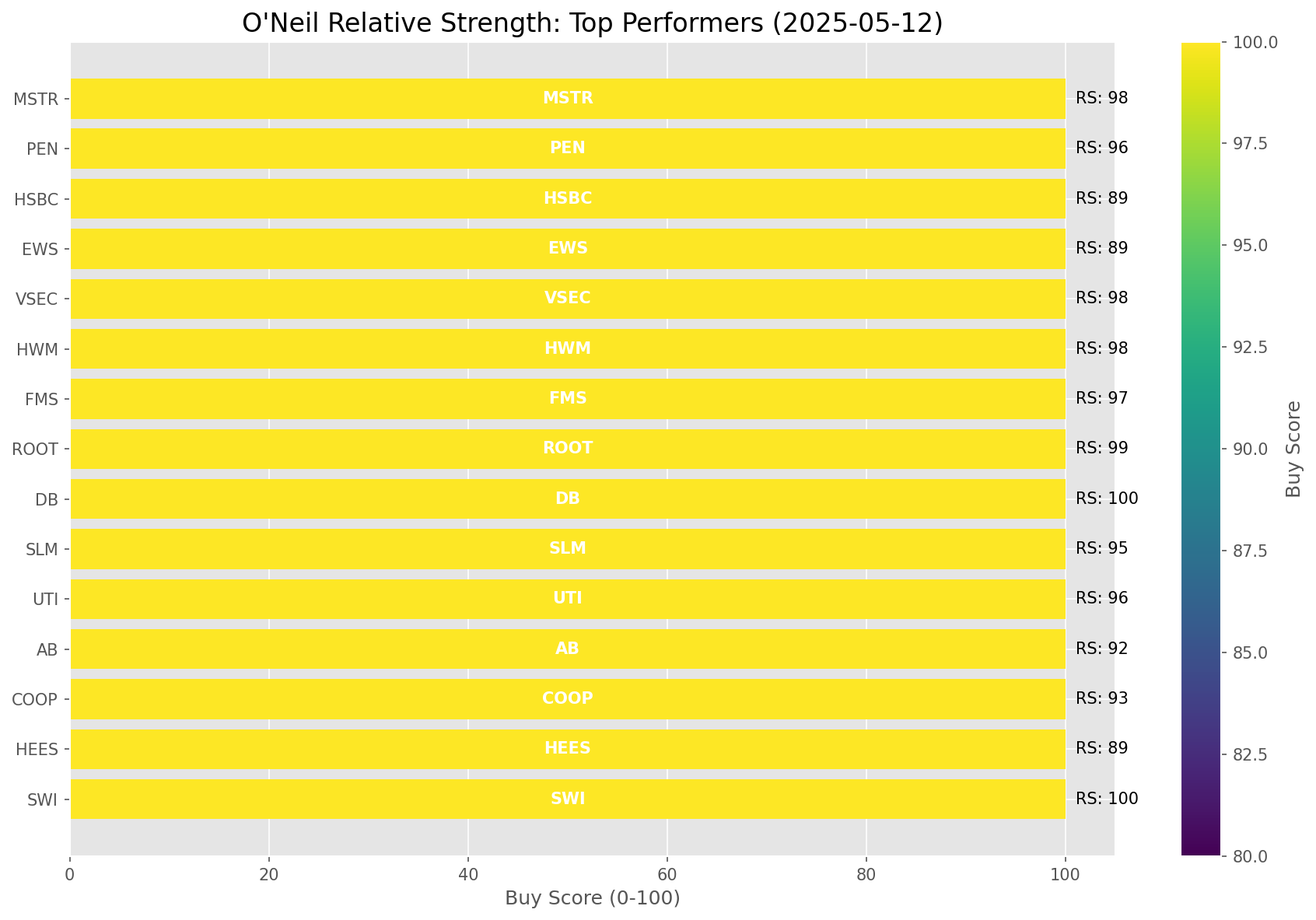
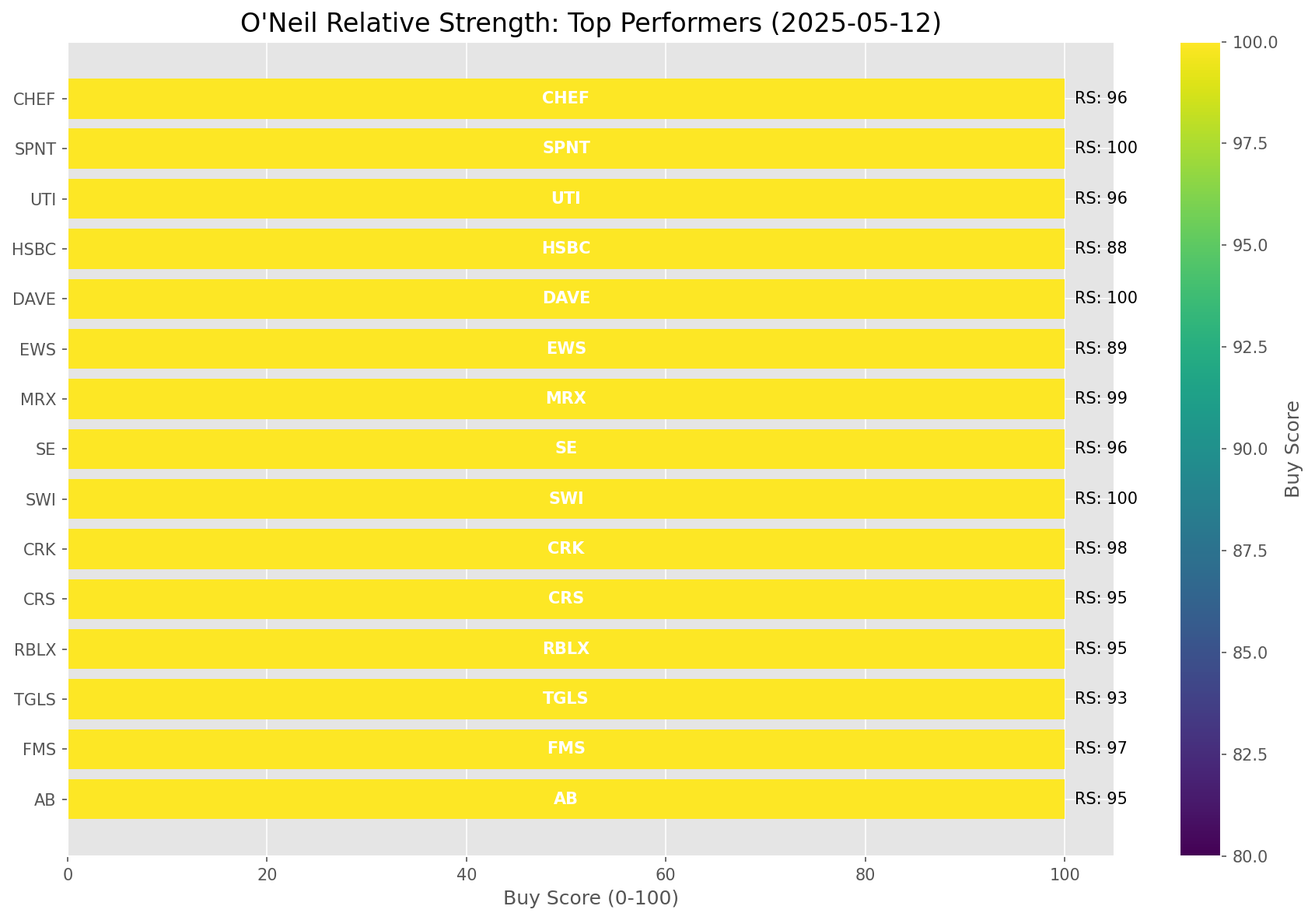
Add market report for 2025-05-12

diff --git a/oneil_relative_strength_report_2025-05-12.md b/oneil_relative_strength_report_2025-05-12.md
@@ -9,11 +9,11 @@
 | Metric | Value |
 |--------|-------|
 | **Market Valuation** | **Fair Valued** |
-| **Current Ratio** | 9.52 |
+| **Current Ratio** | 9.57 |
 | **Historical Mean** | 9.41 |
 | **Standard Deviation** | 0.51 |
 | **Z-Score (StdDev from Mean)** | -0.27 |
-| **Total Market Cap** | $285.49 trillion |
+| **Total Market Cap** | $286.82 trillion |
 | **GDP** | $29.98 trillion |
 
 ## **Market Insights**
@@ -49,41 +49,41 @@ Based on William O'Neil's Relative Strength Methodology
 
 | ETF | Strength | RS Rating | Performance | Above Key MAs | Trend | Sector |
 |-----|----------|-----------|-------------|--------------|-------|--------|
-| [KWEB](https://www.tradingview.com/chart/?symbol=KWEB) | 89.5 | 79.0 | 3.93% | 10d ✓, 50d ✓, 200d ✓ | ↗ | Chinese Internet |
-| [GLD](https://www.tradingview.com/chart/?symbol=GLD) | 86.1 | 92.0 | 10.99% | 10d ✗, 50d ✓, 200d ✓ | ↗ | Gold |
-| [XLI](https://www.tradingview.com/chart/?symbol=XLI) | 85.0 | 70.0 | 0.58% | 10d ✓, 50d ✓, 200d ✓ | ↗ | Industrial |
-| [IYZ](https://www.tradingview.com/chart/?symbol=IYZ) | 82.0 | 64.0 | -0.75% | 10d ✓, 50d ✓, 200d ✓ | ↗ | Telecommunications |
-| [XLF](https://www.tradingview.com/chart/?symbol=XLF) | 80.0 | 60.0 | -1.58% | 10d ✓, 50d ✓, 200d ✓ | ↗ | Financial |
-| [PAVE](https://www.tradingview.com/chart/?symbol=PAVE) | 80.0 | 60.0 | -1.73% | 10d ✓, 50d ✓, 200d ✓ | ↗ | Infrastructure |
-| [CIBR](https://www.tradingview.com/chart/?symbol=CIBR) | 79.5 | 59.0 | -1.81% | 10d ✓, 50d ✓, 200d ✓ | ↗ | Cybersecurity |
-| [DBA](https://www.tradingview.com/chart/?symbol=DBA) | 79.5 | 59.0 | -2.07% | 10d ✓, 50d ✓, 200d ✓ | ↗ | Agriculture |
-| [XLU](https://www.tradingview.com/chart/?symbol=XLU) | 75.6 | 71.0 | 0.78% | 10d ✗, 50d ✓, 200d ✓ | ↗ | Utilities |
-| [XLC](https://www.tradingview.com/chart/?symbol=XLC) | 75.0 | 50.0 | -4.35% | 10d ✓, 50d ✓, 200d ✓ | ↗ | Communications |
-| [AIQ](https://www.tradingview.com/chart/?symbol=AIQ) | 74.5 | 49.0 | -4.45% | 10d ✓, 50d ✓, 200d ✓ | ↗ | Artificial Intelligence & Technology |
-| [IYR](https://www.tradingview.com/chart/?symbol=IYR) | 70.3 | 61.0 | -1.43% | 10d ✓, 50d ✓, 200d ✗ | ↗ | Real Estate |
-| [XLY](https://www.tradingview.com/chart/?symbol=XLY) | 70.0 | 40.0 | -6.60% | 10d ✓, 50d ✓, 200d ✓ | ↗ | Consumer Discretionary |
-| [ARKW](https://www.tradingview.com/chart/?symbol=ARKW) | 68.5 | 37.0 | -7.34% | 10d ✓, 50d ✓, 200d ✓ | ↗ | Next Generation Internet |
-| [BLOK](https://www.tradingview.com/chart/?symbol=BLOK) | 68.0 | 36.0 | -7.76% | 10d ✓, 50d ✓, 200d ✓ | ↗ | Blockchain & Cryptocurrency |
-| [ARKF](https://www.tradingview.com/chart/?symbol=ARKF) | 67.5 | 35.0 | -8.12% | 10d ✓, 50d ✓, 200d ✓ | ↗ | Fintech Innovation |
-| [SLV](https://www.tradingview.com/chart/?symbol=SLV) | 66.2 | 72.0 | 1.04% | 10d ✗, 50d ✗, 200d ✓ | ↗ | Silver |
-| [ICLN](https://www.tradingview.com/chart/?symbol=ICLN) | 65.3 | 91.0 | 9.97% | 10d ✓, 50d ✓, 200d ✗ | ↘ | Clean Energy |
-| [ARKK](https://www.tradingview.com/chart/?symbol=ARKK) | 61.5 | 23.0 | -13.21% | 10d ✓, 50d ✓, 200d ✓ | ↗ | Innovation |
-| [JETS](https://www.tradingview.com/chart/?symbol=JETS) | 60.5 | 21.0 | -14.14% | 10d ✓, 50d ✓, 200d ✓ | ↗ | Airlines |
-| [IYT](https://www.tradingview.com/chart/?symbol=IYT) | 59.3 | 39.0 | -6.89% | 10d ✓, 50d ✓, 200d ✗ | ↗ | Transportation |
-| [XLP](https://www.tradingview.com/chart/?symbol=XLP) | 55.5 | 71.0 | 0.78% | 10d ✗, 50d ✗, 200d ✗ | ↗ | Consumer Staples |
-| [XLK](https://www.tradingview.com/chart/?symbol=XLK) | 55.0 | 50.0 | -4.24% | 10d ✓, 50d ✓, 200d ✓ | ↘ | Technology |
-| [XLB](https://www.tradingview.com/chart/?symbol=XLB) | 47.8 | 56.0 | -2.79% | 10d ✓, 50d ✓, 200d ✗ | ↘ | Materials |
-| [BIL](https://www.tradingview.com/chart/?symbol=BIL) | 43.4 | 67.0 | 0.03% | 10d ✓, 50d ✗, 200d ✗ | ↘ | Short-term Treasuries |
-| [UUP](https://www.tradingview.com/chart/?symbol=UUP) | 42.8 | 46.0 | -5.06% | 10d ✓, 50d ✓, 200d ✗ | ↘ | U.S. Dollar |
-| [SOXX](https://www.tradingview.com/chart/?symbol=SOXX) | 42.3 | 45.0 | -5.23% | 10d ✓, 50d ✓, 200d ✗ | ↘ | Semiconductors |
-| [URA](https://www.tradingview.com/chart/?symbol=URA) | 39.8 | 40.0 | -6.29% | 10d ✓, 50d ✓, 200d ✗ | ↘ | Uranium |
-| [ITB](https://www.tradingview.com/chart/?symbol=ITB) | 37.8 | 36.0 | -7.82% | 10d ✓, 50d ✓, 200d ✗ | ↘ | Home Construction |
-| [DBC](https://www.tradingview.com/chart/?symbol=DBC) | 33.4 | 47.0 | -4.89% | 10d ✓, 50d ✗, 200d ✗ | ↘ | Commodities |
-| [XLE](https://www.tradingview.com/chart/?symbol=XLE) | 28.9 | 38.0 | -7.13% | 10d ✓, 50d ✗, 200d ✗ | ↘ | Energy |
-| [ARKG](https://www.tradingview.com/chart/?symbol=ARKG) | 28.3 | 17.0 | -16.88% | 10d ✓, 50d ✓, 200d ✗ | ↘ | Genomics |
-| [TLT](https://www.tradingview.com/chart/?symbol=TLT) | 28.0 | 56.0 | -2.83% | 10d ✗, 50d ✗, 200d ✗ | ↘ | Long-term Treasuries |
-| [XLV](https://www.tradingview.com/chart/?symbol=XLV) | 18.0 | 36.0 | -7.58% | 10d ✗, 50d ✗, 200d ✗ | ↘ | Healthcare |
-| [IBB](https://www.tradingview.com/chart/?symbol=IBB) | 14.0 | 28.0 | -10.91% | 10d ✗, 50d ✗, 200d ✗ | ↘ | Biotechnology |
+| [KWEB](https://www.tradingview.com/chart/?symbol=KWEB) | 89.5 | 79.0 | 4.11% | 10d ✓, 50d ✓, 200d ✓ | ↗ | Chinese Internet |
+| [GLD](https://www.tradingview.com/chart/?symbol=GLD) | 86.1 | 92.0 | 10.70% | 10d ✗, 50d ✓, 200d ✓ | ↗ | Gold |
+| [XLU](https://www.tradingview.com/chart/?symbol=XLU) | 86.0 | 72.0 | 1.19% | 10d ✓, 50d ✓, 200d ✓ | ↗ | Utilities |
+| [XLI](https://www.tradingview.com/chart/?symbol=XLI) | 85.5 | 71.0 | 0.98% | 10d ✓, 50d ✓, 200d ✓ | ↗ | Industrial |
+| [IYZ](https://www.tradingview.com/chart/?symbol=IYZ) | 82.0 | 64.0 | -0.50% | 10d ✓, 50d ✓, 200d ✓ | ↗ | Telecommunications |
+| [CIBR](https://www.tradingview.com/chart/?symbol=CIBR) | 80.0 | 60.0 | -1.24% | 10d ✓, 50d ✓, 200d ✓ | ↗ | Cybersecurity |
+| [PAVE](https://www.tradingview.com/chart/?symbol=PAVE) | 80.0 | 60.0 | -1.24% | 10d ✓, 50d ✓, 200d ✓ | ↗ | Infrastructure |
+| [XLF](https://www.tradingview.com/chart/?symbol=XLF) | 80.0 | 60.0 | -1.23% | 10d ✓, 50d ✓, 200d ✓ | ↗ | Financial |
+| [DBA](https://www.tradingview.com/chart/?symbol=DBA) | 78.5 | 57.0 | -2.16% | 10d ✓, 50d ✓, 200d ✓ | ↗ | Agriculture |
+| [XLC](https://www.tradingview.com/chart/?symbol=XLC) | 75.0 | 50.0 | -3.96% | 10d ✓, 50d ✓, 200d ✓ | ↗ | Communications |
+| [AIQ](https://www.tradingview.com/chart/?symbol=AIQ) | 74.5 | 49.0 | -4.01% | 10d ✓, 50d ✓, 200d ✓ | ↗ | Artificial Intelligence & Technology |
+| [IYR](https://www.tradingview.com/chart/?symbol=IYR) | 70.3 | 61.0 | -1.18% | 10d ✓, 50d ✓, 200d ✗ | ↗ | Real Estate |
+| [XLY](https://www.tradingview.com/chart/?symbol=XLY) | 69.5 | 39.0 | -6.31% | 10d ✓, 50d ✓, 200d ✓ | ↗ | Consumer Discretionary |
+| [ARKW](https://www.tradingview.com/chart/?symbol=ARKW) | 68.5 | 37.0 | -6.99% | 10d ✓, 50d ✓, 200d ✓ | ↗ | Next Generation Internet |
+| [BLOK](https://www.tradingview.com/chart/?symbol=BLOK) | 68.0 | 36.0 | -7.14% | 10d ✓, 50d ✓, 200d ✓ | ↗ | Blockchain & Cryptocurrency |
+| [ARKF](https://www.tradingview.com/chart/?symbol=ARKF) | 67.0 | 34.0 | -7.86% | 10d ✓, 50d ✓, 200d ✓ | ↗ | Fintech Innovation |
+| [SLV](https://www.tradingview.com/chart/?symbol=SLV) | 65.7 | 71.0 | 0.98% | 10d ✗, 50d ✗, 200d ✓ | ↗ | Silver |
+| [XLP](https://www.tradingview.com/chart/?symbol=XLP) | 65.7 | 71.0 | 1.10% | 10d ✗, 50d ✗, 200d ✓ | ↗ | Consumer Staples |
+| [ICLN](https://www.tradingview.com/chart/?symbol=ICLN) | 65.3 | 91.0 | 10.15% | 10d ✓, 50d ✓, 200d ✗ | ↘ | Clean Energy |
+| [ARKK](https://www.tradingview.com/chart/?symbol=ARKK) | 61.0 | 22.0 | -12.83% | 10d ✓, 50d ✓, 200d ✓ | ↗ | Innovation |
+| [JETS](https://www.tradingview.com/chart/?symbol=JETS) | 60.0 | 20.0 | -13.89% | 10d ✓, 50d ✓, 200d ✓ | ↗ | Airlines |
+| [XLK](https://www.tradingview.com/chart/?symbol=XLK) | 55.5 | 51.0 | -3.81% | 10d ✓, 50d ✓, 200d ✓ | ↘ | Technology |
+| [URA](https://www.tradingview.com/chart/?symbol=URA) | 50.0 | 40.0 | -5.96% | 10d ✓, 50d ✓, 200d ✓ | ↘ | Uranium |
+| [XLB](https://www.tradingview.com/chart/?symbol=XLB) | 47.8 | 56.0 | -2.55% | 10d ✓, 50d ✓, 200d ✗ | ↘ | Materials |
+| [BIL](https://www.tradingview.com/chart/?symbol=BIL) | 42.9 | 66.0 | 0.03% | 10d ✓, 50d ✗, 200d ✗ | ↘ | Short-term Treasuries |
+| [SOXX](https://www.tradingview.com/chart/?symbol=SOXX) | 42.3 | 45.0 | -4.84% | 10d ✓, 50d ✓, 200d ✗ | ↘ | Semiconductors |
+| [UUP](https://www.tradingview.com/chart/?symbol=UUP) | 42.3 | 45.0 | -4.89% | 10d ✓, 50d ✓, 200d ✗ | ↘ | U.S. Dollar |
+| [IYT](https://www.tradingview.com/chart/?symbol=IYT) | 38.8 | 38.0 | -6.76% | 10d ✓, 50d ✓, 200d ✗ | ↘ | Transportation |
+| [ITB](https://www.tradingview.com/chart/?symbol=ITB) | 37.3 | 35.0 | -7.44% | 10d ✓, 50d ✓, 200d ✗ | ↘ | Home Construction |
+| [DBC](https://www.tradingview.com/chart/?symbol=DBC) | 32.4 | 45.0 | -4.98% | 10d ✓, 50d ✗, 200d ✗ | ↘ | Commodities |
+| [XLE](https://www.tradingview.com/chart/?symbol=XLE) | 28.4 | 37.0 | -6.83% | 10d ✓, 50d ✗, 200d ✗ | ↘ | Energy |
+| [ARKG](https://www.tradingview.com/chart/?symbol=ARKG) | 28.3 | 17.0 | -16.20% | 10d ✓, 50d ✓, 200d ✗ | ↘ | Genomics |
+| [TLT](https://www.tradingview.com/chart/?symbol=TLT) | 27.0 | 54.0 | -2.86% | 10d ✗, 50d ✗, 200d ✗ | ↘ | Long-term Treasuries |
+| [XLV](https://www.tradingview.com/chart/?symbol=XLV) | 18.0 | 36.0 | -7.07% | 10d ✗, 50d ✗, 200d ✗ | ↘ | Healthcare |
+| [IBB](https://www.tradingview.com/chart/?symbol=IBB) | 14.0 | 28.0 | -10.19% | 10d ✗, 50d ✗, 200d ✗ | ↘ | Biotechnology |
 
 ### **Sector ETF Performance Interpretation**
 
@@ -98,158 +98,165 @@ This table shows the relative strength metrics for different market sectors base
 
 ### **Current Sector Leadership**
 
-The current market leadership is coming from the following sectors: **Chinese Internet, Gold, Industrial**.
+The current market leadership is coming from the following sectors: **Chinese Internet, Gold, Utilities**.
 
-The **Chinese Internet** sector (represented by **KWEB**) is showing particularly strong relative strength with an RS rating of 79.0 and performance of 3.93% vs. the S&P 500. This sector is trading above its 10-day, 50-day, 200-day moving average(s). Investors should consider focusing on high RS stocks within these leading sectors for potential outperformance.
+The **Chinese Internet** sector (represented by **KWEB**) is showing particularly strong relative strength with an RS rating of 79.0 and performance of 4.11% vs. the S&P 500. This sector is trading above its 10-day, 50-day, 200-day moving average(s). Investors should consider focusing on high RS stocks within these leading sectors for potential outperformance.
 
 ---
 
 ## **Buy Recommendations**
 
-The following 50 stocks show exceptional relative strength:
+The following 53 stocks show exceptional relative strength:
 
 | RS Rating | Buy Score | Current Price | Chart | Name | Ticker |
 |-----------|-----------|---------------|-------|------|--------|
-| 100 | 100 | $27.38 | [Chart](https://www.tradingview.com/chart/?symbol=DB) | Deutsche Bank Aktiengesellschaft | DB |
-| 100 | 100 | $19.08 | [Chart](https://www.tradingview.com/chart/?symbol=SPNT) | SiriusPoint Ltd. | SPNT |
-| 100 | 100 | $86.76 | [Chart](https://www.tradingview.com/chart/?symbol=SEZL) | Sezzle Inc. Common Stock | SEZL |
-| 100 | 100 | $175.11 | [Chart](https://www.tradingview.com/chart/?symbol=DAVE) | Dave Inc. Class A Common Stock | DAVE |
-| 100 | 100 | $23.60 | [Chart](https://www.tradingview.com/chart/?symbol=GRND) | Grindr Inc. | GRND |
-| 99 | 100 | $148.50 | [Chart](https://www.tradingview.com/chart/?symbol=ROOT) | Root, Inc. Class A Common Stock | ROOT |
-| 99 | 100 | $69.55 | [Chart](https://www.tradingview.com/chart/?symbol=ULS) | UL Solutions Inc. | ULS |
-| 99 | 100 | $46.97 | [Chart](https://www.tradingview.com/chart/?symbol=MRX) | Marex Group plc Ordinary Shares | MRX |
-| 98 | 100 | $156.92 | [Chart](https://www.tradingview.com/chart/?symbol=HWM) | Howmet Aerospace Inc. | HWM |
+| 100 | 100 | $172.42 | [Chart](https://www.tradingview.com/chart/?symbol=DAVE) | Dave Inc. Class A Common Stock | DAVE |
+| 100 | 100 | $19.28 | [Chart](https://www.tradingview.com/chart/?symbol=SPNT) | SiriusPoint Ltd. | SPNT |
+| 100 | 100 | $27.45 | [Chart](https://www.tradingview.com/chart/?symbol=DB) | Deutsche Bank Aktiengesellschaft | DB |
+| 100 | 100 | $88.42 | [Chart](https://www.tradingview.com/chart/?symbol=SEZL) | Sezzle Inc. Common Stock | SEZL |
+| 100 | 100 | $23.95 | [Chart](https://www.tradingview.com/chart/?symbol=GRND) | Grindr Inc. | GRND |
+| 99 | 100 | $47.73 | [Chart](https://www.tradingview.com/chart/?symbol=MRX) | Marex Group plc Ordinary Shares | MRX |
+| 99 | 100 | $150.08 | [Chart](https://www.tradingview.com/chart/?symbol=ROOT) | Root, Inc. Class A Common Stock | ROOT |
+| 99 | 100 | $69.70 | [Chart](https://www.tradingview.com/chart/?symbol=ULS) | UL Solutions Inc. | ULS |
+| 98 | 100 | $22.80 | [Chart](https://www.tradingview.com/chart/?symbol=CRK) | Comstock Resources, Inc. | CRK |
+| 98 | 100 | $157.54 | [Chart](https://www.tradingview.com/chart/?symbol=HWM) | Howmet Aerospace Inc. | HWM |
+| 98 | 100 | $34.82 | [Chart](https://www.tradingview.com/chart/?symbol=AHR) | American Healthcare REIT, Inc. | AHR |
+| 98 | 100 | $408.37 | [Chart](https://www.tradingview.com/chart/?symbol=MSTR) | MicroStrategy Inc | MSTR |
+| 98 | 100 | $130.81 | [Chart](https://www.tradingview.com/chart/?symbol=ATGE) | Adtalem Global Education Inc. Common Shares | ATGE |
 | 98 | 100 | $129.14 | [Chart](https://www.tradingview.com/chart/?symbol=VSEC) | VSE Corp | VSEC |
-| 98 | 100 | $408.12 | [Chart](https://www.tradingview.com/chart/?symbol=MSTR) | MicroStrategy Inc | MSTR |
-| 98 | 100 | $132.44 | [Chart](https://www.tradingview.com/chart/?symbol=ATGE) | Adtalem Global Education Inc. Common Shares | ATGE |
-| 98 | 100 | $34.60 | [Chart](https://www.tradingview.com/chart/?symbol=AHR) | American Healthcare REIT, Inc. | AHR |
 | 97 | 100 | $28.13 | [Chart](https://www.tradingview.com/chart/?symbol=FMS) | Fresenius Medical Care AG | FMS |
-| 97 | 100 | $147.91 | [Chart](https://www.tradingview.com/chart/?symbol=CAH) | Cardinal Health, Inc. | CAH |
-| 97 | 100 | $37.70 | [Chart](https://www.tradingview.com/chart/?symbol=PAY) | Paymentus Holdings, Inc. | PAY |
-| 97 | 100 | $30.66 | [Chart](https://www.tradingview.com/chart/?symbol=EUFN) | iShares MSCI Europe Financials ETF | EUFN |
-| 96 | 100 | $33.41 | [Chart](https://www.tradingview.com/chart/?symbol=UTI) | Universal Technical Institute, Inc. | UTI |
-| 96 | 100 | $298.12 | [Chart](https://www.tradingview.com/chart/?symbol=PEN) | Penumbra, Inc. | PEN |
-| 96 | 100 | $40.26 | [Chart](https://www.tradingview.com/chart/?symbol=EWG) | iShares MSCI Germany ETF | EWG |
-| 95 | 100 | $32.88 | [Chart](https://www.tradingview.com/chart/?symbol=SLM) | SLM Corporation | SLM |
-| 95 | 100 | $216.00 | [Chart](https://www.tradingview.com/chart/?symbol=CRS) | Carpenter Technology Corp | CRS |
-| 95 | 100 | $73.75 | [Chart](https://www.tradingview.com/chart/?symbol=RBLX) | Roblox Corporation | RBLX |
-| 95 | 100 | $61.81 | [Chart](https://www.tradingview.com/chart/?symbol=CHEF) | The Chef's Warehouse Inc | CHEF |
-| 95 | 100 | $47.53 | [Chart](https://www.tradingview.com/chart/?symbol=ERJ) | Embraer S.A. | ERJ |
-| 95 | 100 | $142.82 | [Chart](https://www.tradingview.com/chart/?symbol=SE) | Sea Limited American Depositary Shares, each representing one Class A Ordinary Share | SE |
-| 94 | 100 | $104.78 | [Chart](https://www.tradingview.com/chart/?symbol=RBA) | RB Global, Inc. | RBA |
-| 93 | 100 | $119.30 | [Chart](https://www.tradingview.com/chart/?symbol=COOP) | Mr. Cooper Group Inc. Common Stock | COOP |
-| 93 | 100 | $16.66 | [Chart](https://www.tradingview.com/chart/?symbol=BCS) | Barclays PLC | BCS |
-| 93 | 100 | $53.17 | [Chart](https://www.tradingview.com/chart/?symbol=EPR) | EPR Properties | EPR |
-| 92 | 100 | $40.76 | [Chart](https://www.tradingview.com/chart/?symbol=AB) | AllianceBernstein Holding, L.P. | AB |
-| 92 | 100 | $316.20 | [Chart](https://www.tradingview.com/chart/?symbol=PODD) | Insulet Corporation | PODD |
-| 92 | 100 | $86.46 | [Chart](https://www.tradingview.com/chart/?symbol=TGLS) | Tecnoglass Inc. | TGLS |
-| 89 | 100 | $94.33 | [Chart](https://www.tradingview.com/chart/?symbol=HEES) | H&E Equipment Services, Inc. | HEES |
-| 89 | 100 | $25.09 | [Chart](https://www.tradingview.com/chart/?symbol=EWS) | iShares MSCI Singapore ETF | EWS |
-| 89 | 100 | $58.33 | [Chart](https://www.tradingview.com/chart/?symbol=HSBC) | HSBC Holdings PLC | HSBC |
-| 89 | 100 | $67.61 | [Chart](https://www.tradingview.com/chart/?symbol=CTVA) | Corteva, Inc. Common Stock | CTVA |
-| 88 | 100 | $196.10 | [Chart](https://www.tradingview.com/chart/?symbol=LOPE) | Grand Canyon Education, Inc | LOPE |
-| 88 | 98 | $13.29 | [Chart](https://www.tradingview.com/chart/?symbol=CNH) | CNH INDUSTRIAL N.V. | CNH |
-| 87 | 97 | $30.60 | [Chart](https://www.tradingview.com/chart/?symbol=PRDO) | Perdoceo Education Corporation | PRDO |
-| 84 | 97 | $45.93 | [Chart](https://www.tradingview.com/chart/?symbol=QFIN) | Qifu Technology, Inc. American Depositary Shares | QFIN |
-| 84 | 97 | $219.22 | [Chart](https://www.tradingview.com/chart/?symbol=IDCC) | InterDigital, Inc. | IDCC |
-| 85 | 96 | $205.37 | [Chart](https://www.tradingview.com/chart/?symbol=BAP) | Credicorp LTD | BAP |
-| 85 | 96 | $29.64 | [Chart](https://www.tradingview.com/chart/?symbol=ATAT) | Atour Lifestyle Holdings Limited American Depositary Shares | ATAT |
-| 81 | 93 | $204.28 | [Chart](https://www.tradingview.com/chart/?symbol=DRI) | Darden Restaurants, Inc. | DRI |
-| 80 | 93 | $66.25 | [Chart](https://www.tradingview.com/chart/?symbol=CSGS) | CSG Systems International | CSGS |
-| 83 | 92 | $29.09 | [Chart](https://www.tradingview.com/chart/?symbol=HODL) | VanEck Bitcoin ETF | HODL |
-| 83 | 92 | $58.45 | [Chart](https://www.tradingview.com/chart/?symbol=IBIT) | iShares Bitcoin Trust ETF | IBIT |
-| 81 | 92 | $164.48 | [Chart](https://www.tradingview.com/chart/?symbol=ITA) | iShares U.S. Aerospace & Defense ETF | ITA |
-| 80 | 90 | $17.00 | [Chart](https://www.tradingview.com/chart/?symbol=MIR) | Mirion Technologies, Inc. | MIR |
+| 97 | 100 | $40.58 | [Chart](https://www.tradingview.com/chart/?symbol=DRS) | Leonardo DRS, Inc. Common Stock | DRS |
+| 97 | 100 | $38.38 | [Chart](https://www.tradingview.com/chart/?symbol=PAY) | Paymentus Holdings, Inc. | PAY |
+| 97 | 100 | $30.70 | [Chart](https://www.tradingview.com/chart/?symbol=EUFN) | iShares MSCI Europe Financials ETF | EUFN |
+| 96 | 100 | $143.30 | [Chart](https://www.tradingview.com/chart/?symbol=SE) | Sea Limited American Depositary Shares, each representing one Class A Ordinary Share | SE |
+| 96 | 100 | $33.65 | [Chart](https://www.tradingview.com/chart/?symbol=UTI) | Universal Technical Institute, Inc. | UTI |
+| 96 | 100 | $62.12 | [Chart](https://www.tradingview.com/chart/?symbol=CHEF) | The Chef's Warehouse Inc | CHEF |
+| 96 | 100 | $299.62 | [Chart](https://www.tradingview.com/chart/?symbol=PEN) | Penumbra, Inc. | PEN |
+| 96 | 100 | $40.28 | [Chart](https://www.tradingview.com/chart/?symbol=EWG) | iShares MSCI Germany ETF | EWG |
+| 95 | 100 | $41.00 | [Chart](https://www.tradingview.com/chart/?symbol=AB) | AllianceBernstein Holding, L.P. | AB |
+| 95 | 100 | $74.19 | [Chart](https://www.tradingview.com/chart/?symbol=RBLX) | Roblox Corporation | RBLX |
+| 95 | 100 | $217.06 | [Chart](https://www.tradingview.com/chart/?symbol=CRS) | Carpenter Technology Corp | CRS |
+| 95 | 100 | $33.18 | [Chart](https://www.tradingview.com/chart/?symbol=SLM) | SLM Corporation | SLM |
+| 95 | 100 | $47.82 | [Chart](https://www.tradingview.com/chart/?symbol=ERJ) | Embraer S.A. | ERJ |
+| 94 | 100 | $105.03 | [Chart](https://www.tradingview.com/chart/?symbol=RBA) | RB Global, Inc. | RBA |
+| 93 | 100 | $87.22 | [Chart](https://www.tradingview.com/chart/?symbol=TGLS) | Tecnoglass Inc. | TGLS |
+| 93 | 100 | $16.75 | [Chart](https://www.tradingview.com/chart/?symbol=BCS) | Barclays PLC | BCS |
+| 93 | 100 | $53.20 | [Chart](https://www.tradingview.com/chart/?symbol=EPR) | EPR Properties | EPR |
+| 93 | 100 | $317.74 | [Chart](https://www.tradingview.com/chart/?symbol=PODD) | Insulet Corporation | PODD |
+| 93 | 100 | $118.47 | [Chart](https://www.tradingview.com/chart/?symbol=COOP) | Mr. Cooper Group Inc. Common Stock | COOP |
+| 89 | 100 | $25.12 | [Chart](https://www.tradingview.com/chart/?symbol=EWS) | iShares MSCI Singapore ETF | EWS |
+| 89 | 100 | $94.55 | [Chart](https://www.tradingview.com/chart/?symbol=HEES) | H&E Equipment Services, Inc. | HEES |
+| 89 | 100 | $67.76 | [Chart](https://www.tradingview.com/chart/?symbol=CTVA) | Corteva, Inc. Common Stock | CTVA |
+| 88 | 100 | $58.34 | [Chart](https://www.tradingview.com/chart/?symbol=HSBC) | HSBC Holdings PLC | HSBC |
+| 87 | 99 | $196.10 | [Chart](https://www.tradingview.com/chart/?symbol=LOPE) | Grand Canyon Education, Inc | LOPE |
+| 88 | 98 | $13.34 | [Chart](https://www.tradingview.com/chart/?symbol=CNH) | CNH INDUSTRIAL N.V. | CNH |
+| 86 | 96 | $30.51 | [Chart](https://www.tradingview.com/chart/?symbol=PRDO) | Perdoceo Education Corporation | PRDO |
+| 83 | 96 | $45.81 | [Chart](https://www.tradingview.com/chart/?symbol=QFIN) | Qifu Technology, Inc. American Depositary Shares | QFIN |
+| 84 | 95 | $29.59 | [Chart](https://www.tradingview.com/chart/?symbol=ATAT) | Atour Lifestyle Holdings Limited American Depositary Shares | ATAT |
+| 84 | 95 | $205.37 | [Chart](https://www.tradingview.com/chart/?symbol=BAP) | Credicorp LTD | BAP |
+| 82 | 95 | $218.75 | [Chart](https://www.tradingview.com/chart/?symbol=IDCC) | InterDigital, Inc. | IDCC |
+| 82 | 93 | $23.99 | [Chart](https://www.tradingview.com/chart/?symbol=CPRX) | Catalyst Pharmaceutical  Inc. | CPRX |
+| 81 | 93 | $204.74 | [Chart](https://www.tradingview.com/chart/?symbol=DRI) | Darden Restaurants, Inc. | DRI |
+| 83 | 92 | $58.52 | [Chart](https://www.tradingview.com/chart/?symbol=IBIT) | iShares Bitcoin Trust ETF | IBIT |
+| 81 | 92 | $165.23 | [Chart](https://www.tradingview.com/chart/?symbol=ITA) | iShares U.S. Aerospace & Defense ETF | ITA |
+| 81 | 92 | $204.75 | [Chart](https://www.tradingview.com/chart/?symbol=DFS) | Discover Financial Services | DFS |
+| 81 | 91 | $17.08 | [Chart](https://www.tradingview.com/chart/?symbol=MIR) | Mirion Technologies, Inc. | MIR |
+| 80 | 91 | $24.93 | [Chart](https://www.tradingview.com/chart/?symbol=PRVA) | Privia Health Group, Inc. Common Stock | PRVA |
+| 80 | 90 | $69.51 | [Chart](https://www.tradingview.com/chart/?symbol=BROS) | Dutch Bros Inc. | BROS |
 
 ---
 
 
 ## **Sell Recommendations**
 
-The following 80 stocks show deteriorating relative strength:
+The following 84 stocks show deteriorating relative strength:
 
 | RS Rating | Sell Score | Current Price | Chart | Name | Ticker |
 |-----------|------------|---------------|-------|------|--------|
-| 1 | 100 | $10.06 | [Chart](https://www.tradingview.com/chart/?symbol=NRIX) | Nurix Therapeutics, Inc. Common stock | NRIX |
-| 1 | 100 | $20.04 | [Chart](https://www.tradingview.com/chart/?symbol=BHVN) | Biohaven Ltd. | BHVN |
-| 2 | 100 | $14.01 | [Chart](https://www.tradingview.com/chart/?symbol=DQ) | Daqo New Energy Corp. American Depositary Shares (each representing 5 Ordinary Shares) | DQ |
-| 3 | 100 | $10.35 | [Chart](https://www.tradingview.com/chart/?symbol=LSPD) | Lightspeed Commerce Inc. | LSPD |
-| 4 | 100 | $11.38 | [Chart](https://www.tradingview.com/chart/?symbol=ARCT) | Arcturus Therapeutics Holdings Inc. Common Stock | ARCT |
-| 4 | 100 | $12.99 | [Chart](https://www.tradingview.com/chart/?symbol=MNRO) | Monro, Inc. Common Stock | MNRO |
-| 5 | 100 | $13.20 | [Chart](https://www.tradingview.com/chart/?symbol=FL) | Foot Locker, Inc. | FL |
-| 6 | 100 | $28.20 | [Chart](https://www.tradingview.com/chart/?symbol=JACK) | Jack in the Box Inc. | JACK |
-| 6 | 100 | $28.01 | [Chart](https://www.tradingview.com/chart/?symbol=SRDX) | Surmodics, Inc. Common Stock | SRDX |
-| 7 | 100 | $15.95 | [Chart](https://www.tradingview.com/chart/?symbol=PENN) | PENN Entertainment, Inc. Common Stock | PENN |
-| 7 | 100 | $14.45 | [Chart](https://www.tradingview.com/chart/?symbol=IMVT) | Immunovant, Inc. Common Stock | IMVT |
-| 7 | 100 | $33.22 | [Chart](https://www.tradingview.com/chart/?symbol=AAP) | ADVANCE AUTO PARTS INC | AAP |
-| 7 | 100 | $11.62 | [Chart](https://www.tradingview.com/chart/?symbol=JAMF) | Jamf Holding Corp. Common Stock | JAMF |
-| 8 | 100 | $129.48 | [Chart](https://www.tradingview.com/chart/?symbol=TFX) | Teleflex Incorporated | TFX |
-| 9 | 100 | $32.23 | [Chart](https://www.tradingview.com/chart/?symbol=CYTK) | Cytokinetics Inc. | CYTK |
-| 11 | 100 | $58.62 | [Chart](https://www.tradingview.com/chart/?symbol=AMWD) | American Woodmark Corp | AMWD |
-| 11 | 100 | $33.52 | [Chart](https://www.tradingview.com/chart/?symbol=SMCI) | Super Micro Computer, Inc. Common Stock | SMCI |
-| 12 | 100 | $47.27 | [Chart](https://www.tradingview.com/chart/?symbol=RHI) | Robert Half Inc. | RHI |
+| 1 | 100 | $10.19 | [Chart](https://www.tradingview.com/chart/?symbol=NRIX) | Nurix Therapeutics, Inc. Common stock | NRIX |
+| 1 | 100 | $20.45 | [Chart](https://www.tradingview.com/chart/?symbol=BHVN) | Biohaven Ltd. | BHVN |
+| 2 | 100 | $14.02 | [Chart](https://www.tradingview.com/chart/?symbol=DQ) | Daqo New Energy Corp. American Depositary Shares (each representing 5 Ordinary Shares) | DQ |
+| 3 | 100 | $10.36 | [Chart](https://www.tradingview.com/chart/?symbol=LSPD) | Lightspeed Commerce Inc. | LSPD |
+| 3 | 100 | $29.57 | [Chart](https://www.tradingview.com/chart/?symbol=CRTO) | Criteo S.A. | CRTO |
+| 3 | 100 | $13.12 | [Chart](https://www.tradingview.com/chart/?symbol=MNRO) | Monro, Inc. Common Stock | MNRO |
+| 5 | 100 | $11.76 | [Chart](https://www.tradingview.com/chart/?symbol=ARCT) | Arcturus Therapeutics Holdings Inc. Common Stock | ARCT |
+| 5 | 100 | $13.22 | [Chart](https://www.tradingview.com/chart/?symbol=FL) | Foot Locker, Inc. | FL |
+| 5 | 100 | $28.01 | [Chart](https://www.tradingview.com/chart/?symbol=SRDX) | Surmodics, Inc. Common Stock | SRDX |
+| 6 | 100 | $26.53 | [Chart](https://www.tradingview.com/chart/?symbol=TRN) | Trinity Industries, Inc. | TRN |
+| 7 | 100 | $33.31 | [Chart](https://www.tradingview.com/chart/?symbol=AAP) | ADVANCE AUTO PARTS INC | AAP |
+| 7 | 100 | $16.05 | [Chart](https://www.tradingview.com/chart/?symbol=PENN) | PENN Entertainment, Inc. Common Stock | PENN |
+| 8 | 100 | $129.21 | [Chart](https://www.tradingview.com/chart/?symbol=TFX) | Teleflex Incorporated | TFX |
+| 8 | 100 | $14.58 | [Chart](https://www.tradingview.com/chart/?symbol=IMVT) | Immunovant, Inc. Common Stock | IMVT |
+| 9 | 100 | $11.34 | [Chart](https://www.tradingview.com/chart/?symbol=HPK) | HighPeak Energy, Inc. Common Stock | HPK |
+| 10 | 100 | $32.72 | [Chart](https://www.tradingview.com/chart/?symbol=CYTK) | Cytokinetics Inc. | CYTK |
+| 11 | 100 | $33.58 | [Chart](https://www.tradingview.com/chart/?symbol=SMCI) | Super Micro Computer, Inc. Common Stock | SMCI |
+| 12 | 100 | $47.73 | [Chart](https://www.tradingview.com/chart/?symbol=RHI) | Robert Half Inc. | RHI |
+| 16 | 100 | $10.34 | [Chart](https://www.tradingview.com/chart/?symbol=CMRE) | Costamare Inc. | CMRE |
+| 20 | 100 | $97.68 | [Chart](https://www.tradingview.com/chart/?symbol=CHRD) | Chord Energy Corporation Common Stock | CHRD |
+| 6 | 99 | $10.31 | [Chart](https://www.tradingview.com/chart/?symbol=VREX) | Varex Imaging Corporation Common Stock | VREX |
+| 7 | 99 | $12.78 | [Chart](https://www.tradingview.com/chart/?symbol=LBRT) | Liberty Energy Inc. | LBRT |
 | 9 | 99 | $12.05 | [Chart](https://www.tradingview.com/chart/?symbol=ZUMZ) | Zumiez Inc. | ZUMZ |
-| 10 | 99 | $11.34 | [Chart](https://www.tradingview.com/chart/?symbol=HPK) | HighPeak Energy, Inc. Common Stock | HPK |
-| 17 | 99 | $10.34 | [Chart](https://www.tradingview.com/chart/?symbol=CMRE) | Costamare Inc. | CMRE |
-| 19 | 99 | $10.95 | [Chart](https://www.tradingview.com/chart/?symbol=BWLP) | BW LPG Limited | BWLP |
-| 2 | 98 | $292.13 | [Chart](https://www.tradingview.com/chart/?symbol=SAIA) | Saia, Inc. | SAIA |
-| 21 | 98 | $97.33 | [Chart](https://www.tradingview.com/chart/?symbol=CHRD) | Chord Energy Corporation Common Stock | CHRD |
-| 18 | 97 | $12.46 | [Chart](https://www.tradingview.com/chart/?symbol=AEYE) | AudioEye, Inc. Common Stock | AEYE |
-| 25 | 97 | $13.30 | [Chart](https://www.tradingview.com/chart/?symbol=MED) | Medifast, Inc. | MED |
-| 6 | 96 | $26.35 | [Chart](https://www.tradingview.com/chart/?symbol=TRN) | Trinity Industries, Inc. | TRN |
-| 6 | 96 | $10.31 | [Chart](https://www.tradingview.com/chart/?symbol=VREX) | Varex Imaging Corporation Common Stock | VREX |
-| 11 | 96 | $10.03 | [Chart](https://www.tradingview.com/chart/?symbol=MTAL) | MAC Copper Limited | MTAL |
-| 13 | 95 | $17.84 | [Chart](https://www.tradingview.com/chart/?symbol=MLKN) | MillerKnoll, Inc. Common Stock | MLKN |
-| 20 | 95 | $28.98 | [Chart](https://www.tradingview.com/chart/?symbol=AGIO) | Agios Pharmaceuticals, Inc. | AGIO |
-| 8 | 94 | $115.71 | [Chart](https://www.tradingview.com/chart/?symbol=BLDR) | Builders FirstSource, Inc. | BLDR |
-| 11 | 94 | $10.55 | [Chart](https://www.tradingview.com/chart/?symbol=PEB) | Pebblebrook Hotel Trust | PEB |
-| 15 | 94 | $50.64 | [Chart](https://www.tradingview.com/chart/?symbol=ERX) | Direxion Daily Energy Bull 2X Shares | ERX |
-| 11 | 93 | $54.69 | [Chart](https://www.tradingview.com/chart/?symbol=PRCT) | PROCEPT BioRobotics Corporation Common Stock | PRCT |
-| 11 | 93 | $31.47 | [Chart](https://www.tradingview.com/chart/?symbol=MBIN) | Merchants Bancorp Common Stock | MBIN |
-| 14 | 92 | $10.84 | [Chart](https://www.tradingview.com/chart/?symbol=PACS) | PACS Group, Inc. | PACS |
-| 11 | 91 | $12.11 | [Chart](https://www.tradingview.com/chart/?symbol=APLE) | Apple Hospitality REIT, Inc. | APLE |
-| 16 | 91 | $83.47 | [Chart](https://www.tradingview.com/chart/?symbol=WHR) | Whirlpool Corp. | WHR |
-| 13 | 90 | $16.08 | [Chart](https://www.tradingview.com/chart/?symbol=CHCT) | Community Healthcare Trust Incorporated Common Stock, $0.01 par value per share | CHCT |
-| 22 | 90 | $16.53 | [Chart](https://www.tradingview.com/chart/?symbol=PD) | PagerDuty, Inc. | PD |
-| 22 | 90 | $35.70 | [Chart](https://www.tradingview.com/chart/?symbol=SLB) | Schlumberger Limited | SLB |
-| 23 | 90 | $50.83 | [Chart](https://www.tradingview.com/chart/?symbol=LW) | Lamb Weston Holdings, Inc. | LW |
-| 17 | 89 | $12.41 | [Chart](https://www.tradingview.com/chart/?symbol=DBO) | Invesco DB Oil Fund | DBO |
-| 17 | 89 | $10.38 | [Chart](https://www.tradingview.com/chart/?symbol=AVO) | Mission Produce, Inc. Common Stock | AVO |
-| 12 | 88 | $14.81 | [Chart](https://www.tradingview.com/chart/?symbol=INMD) | InMode Ltd. Ordinary Shares | INMD |
-| 30 | 88 | $149.11 | [Chart](https://www.tradingview.com/chart/?symbol=MTN) | Vail Resorts, Inc. | MTN |
-| 19 | 87 | $19.25 | [Chart](https://www.tradingview.com/chart/?symbol=AAT) | AMERICAN ASSETS TRUST, INC. | AAT |
-| 19 | 87 | $21.90 | [Chart](https://www.tradingview.com/chart/?symbol=SIRI) | Sirius XM Holdings,  Inc | SIRI |
-| 20 | 87 | $10.15 | [Chart](https://www.tradingview.com/chart/?symbol=CELC) | Celcuity Inc. Common Stock | CELC |
-| 22 | 87 | $13.41 | [Chart](https://www.tradingview.com/chart/?symbol=WDS) | Woodside Energy Group Limited American Depositary Shares, each representing one Ordinary Share | WDS |
-| 19 | 86 | $37.00 | [Chart](https://www.tradingview.com/chart/?symbol=NBHC) | NATIONAL BANK HOLDINGS CORP. | NBHC |
-| 20 | 85 | $38.08 | [Chart](https://www.tradingview.com/chart/?symbol=TECS) | Direxion Daily Technology Bear 3x Shares | TECS |
-| 18 | 83 | $34.99 | [Chart](https://www.tradingview.com/chart/?symbol=BHE) | Benchmark Electronics | BHE |
-| 19 | 83 | $97.64 | [Chart](https://www.tradingview.com/chart/?symbol=RVTY) | Revvity, Inc. | RVTY |
-| 22 | 83 | $10.37 | [Chart](https://www.tradingview.com/chart/?symbol=SD) | SandRidge Energy, Inc. | SD |
-| 23 | 82 | $55.59 | [Chart](https://www.tradingview.com/chart/?symbol=KBH) | KB Home | KBH |
-| 38 | 82 | $21.50 | [Chart](https://www.tradingview.com/chart/?symbol=NVDS) | Investment Managers Series Trust II Tradr 1.5X Short NVDA Daily ETF | NVDS |
-| 30 | 81 | $20.60 | [Chart](https://www.tradingview.com/chart/?symbol=BITI) | ProShares Short Bitcoin ETF | BITI |
-| 28 | 80 | $19.18 | [Chart](https://www.tradingview.com/chart/?symbol=HVT) | Haverty Furniture Companies, Inc. | HVT |
-| 29 | 78 | $14.45 | [Chart](https://www.tradingview.com/chart/?symbol=BMEZ) | BlackRock Health Sciences Term Trust | BMEZ |
-| 31 | 78 | $27.61 | [Chart](https://www.tradingview.com/chart/?symbol=BNO) | United States Brent Oil Fund, LP | BNO |
-| 39 | 78 | $65.52 | [Chart](https://www.tradingview.com/chart/?symbol=ZROZ) | PIMCO 25+ Year Zero Coupon U.S. Treasury Index Exchange-Traded Fund | ZROZ |
-| 23 | 77 | $74.54 | [Chart](https://www.tradingview.com/chart/?symbol=WFG) | West Fraser Timber Co. Ltd | WFG |
-| 25 | 77 | $14.65 | [Chart](https://www.tradingview.com/chart/?symbol=RYLD) | Global X Russell 2000 Covered Call ETF | RYLD |
-| 25 | 77 | $16.41 | [Chart](https://www.tradingview.com/chart/?symbol=QYLD) | Global X Funds Global X NASDAQ-100 Covered Call ETF | QYLD |
-| 24 | 76 | $114.12 | [Chart](https://www.tradingview.com/chart/?symbol=EOG) | EOG Resources, Inc. | EOG |
-| 31 | 76 | $111.03 | [Chart](https://www.tradingview.com/chart/?symbol=LEN) | Lennar Corporation Class A | LEN |
-| 35 | 76 | $134.18 | [Chart](https://www.tradingview.com/chart/?symbol=HES) | Hess Corporation | HES |
-| 32 | 75 | $57.05 | [Chart](https://www.tradingview.com/chart/?symbol=UHAL.B) | U-Haul Holding Company | UHAL.B |
-| 29 | 74 | $14.25 | [Chart](https://www.tradingview.com/chart/?symbol=EIC) | Eagle Point Income Company Inc. | EIC |
-| 35 | 74 | $32.87 | [Chart](https://www.tradingview.com/chart/?symbol=LEGN) | Legend Biotech Corporation American Depositary Shares | LEGN |
-| 35 | 73 | $12.09 | [Chart](https://www.tradingview.com/chart/?symbol=KELYA) | Kelly Services Inc | KELYA |
-| 35 | 73 | $13.91 | [Chart](https://www.tradingview.com/chart/?symbol=BSM) | Black Stone Minerals, L.P. | BSM |
-| 31 | 72 | $10.60 | [Chart](https://www.tradingview.com/chart/?symbol=LADR) | LADDER CAPITAL CORP | LADR |
-| 32 | 72 | $17.41 | [Chart](https://www.tradingview.com/chart/?symbol=MLNK) | MeridianLink, Inc. | MLNK |
-| 34 | 70 | $56.57 | [Chart](https://www.tradingview.com/chart/?symbol=IYH) | iShares U.S. Healthcare ETF | IYH |
-| 35 | 70 | $14.99 | [Chart](https://www.tradingview.com/chart/?symbol=HR) | Healthcare Realty Trust Incorporated | HR |
-| 36 | 69 | $117.51 | [Chart](https://www.tradingview.com/chart/?symbol=VDE) | Vanguard Energy ETF | VDE |
-| 38 | 66 | $84.06 | [Chart](https://www.tradingview.com/chart/?symbol=XLE) | Energy Select Sector SPDR Fund | XLE |
+| 22 | 99 | $13.23 | [Chart](https://www.tradingview.com/chart/?symbol=MED) | Medifast, Inc. | MED |
+| 4 | 98 | $32.90 | [Chart](https://www.tradingview.com/chart/?symbol=TWST) | Twist Bioscience Corporation Common Stock | TWST |
+| 11 | 98 | $10.03 | [Chart](https://www.tradingview.com/chart/?symbol=MTAL) | MAC Copper Limited | MTAL |
+| 19 | 98 | $10.96 | [Chart](https://www.tradingview.com/chart/?symbol=BWLP) | BW LPG Limited | BWLP |
+| 8 | 97 | $56.08 | [Chart](https://www.tradingview.com/chart/?symbol=CCS) | CENTURY COMMUNITIES, INC. | CCS |
+| 20 | 97 | $29.25 | [Chart](https://www.tradingview.com/chart/?symbol=AGIO) | Agios Pharmaceuticals, Inc. | AGIO |
+| 8 | 95 | $116.33 | [Chart](https://www.tradingview.com/chart/?symbol=BLDR) | Builders FirstSource, Inc. | BLDR |
+| 11 | 95 | $31.47 | [Chart](https://www.tradingview.com/chart/?symbol=MBIN) | Merchants Bancorp Common Stock | MBIN |
+| 13 | 95 | $17.86 | [Chart](https://www.tradingview.com/chart/?symbol=MLKN) | MillerKnoll, Inc. Common Stock | MLKN |
+| 15 | 95 | $50.96 | [Chart](https://www.tradingview.com/chart/?symbol=ERX) | Direxion Daily Energy Bull 2X Shares | ERX |
+| 11 | 94 | $10.60 | [Chart](https://www.tradingview.com/chart/?symbol=PEB) | Pebblebrook Hotel Trust | PEB |
+| 15 | 93 | $16.51 | [Chart](https://www.tradingview.com/chart/?symbol=CHCT) | Community Healthcare Trust Incorporated Common Stock, $0.01 par value per share | CHCT |
+| 8 | 92 | $10.15 | [Chart](https://www.tradingview.com/chart/?symbol=HLIT) | Harmonic Inc | HLIT |
+| 11 | 92 | $12.14 | [Chart](https://www.tradingview.com/chart/?symbol=APLE) | Apple Hospitality REIT, Inc. | APLE |
+| 11 | 92 | $55.22 | [Chart](https://www.tradingview.com/chart/?symbol=PRCT) | PROCEPT BioRobotics Corporation Common Stock | PRCT |
+| 16 | 91 | $84.04 | [Chart](https://www.tradingview.com/chart/?symbol=WHR) | Whirlpool Corp. | WHR |
+| 22 | 91 | $35.87 | [Chart](https://www.tradingview.com/chart/?symbol=SLB) | Schlumberger Limited | SLB |
+| 22 | 91 | $16.65 | [Chart](https://www.tradingview.com/chart/?symbol=PD) | PagerDuty, Inc. | PD |
+| 16 | 90 | $10.38 | [Chart](https://www.tradingview.com/chart/?symbol=AVO) | Mission Produce, Inc. Common Stock | AVO |
+| 17 | 90 | $12.26 | [Chart](https://www.tradingview.com/chart/?symbol=M) | Macy's Inc. | M |
+| 28 | 90 | $148.78 | [Chart](https://www.tradingview.com/chart/?symbol=MTN) | Vail Resorts, Inc. | MTN |
+| 18 | 89 | $10.15 | [Chart](https://www.tradingview.com/chart/?symbol=CELC) | Celcuity Inc. Common Stock | CELC |
+| 22 | 89 | $51.00 | [Chart](https://www.tradingview.com/chart/?symbol=LW) | Lamb Weston Holdings, Inc. | LW |
+| 12 | 88 | $14.92 | [Chart](https://www.tradingview.com/chart/?symbol=INMD) | InMode Ltd. Ordinary Shares | INMD |
+| 17 | 88 | $37.41 | [Chart](https://www.tradingview.com/chart/?symbol=TECS) | Direxion Daily Technology Bear 3x Shares | TECS |
+| 18 | 88 | $37.00 | [Chart](https://www.tradingview.com/chart/?symbol=NBHC) | NATIONAL BANK HOLDINGS CORP. | NBHC |
+| 16 | 86 | $12.30 | [Chart](https://www.tradingview.com/chart/?symbol=XHR) | Xenia Hotels & Resorts, Inc. | XHR |
+| 23 | 86 | $12.81 | [Chart](https://www.tradingview.com/chart/?symbol=DBO) | Invesco DB Oil Fund | DBO |
+| 22 | 84 | $10.44 | [Chart](https://www.tradingview.com/chart/?symbol=SD) | SandRidge Energy, Inc. | SD |
+| 36 | 84 | $21.47 | [Chart](https://www.tradingview.com/chart/?symbol=NVDS) | Investment Managers Series Trust II Tradr 1.5X Short NVDA Daily ETF | NVDS |
+| 19 | 83 | $98.05 | [Chart](https://www.tradingview.com/chart/?symbol=RVTY) | Revvity, Inc. | RVTY |
+| 24 | 83 | $36.86 | [Chart](https://www.tradingview.com/chart/?symbol=BHE) | Benchmark Electronics | BHE |
+| 22 | 82 | $55.89 | [Chart](https://www.tradingview.com/chart/?symbol=KBH) | KB Home | KBH |
+| 26 | 82 | $19.18 | [Chart](https://www.tradingview.com/chart/?symbol=HVT) | Haverty Furniture Companies, Inc. | HVT |
+| 31 | 82 | $20.97 | [Chart](https://www.tradingview.com/chart/?symbol=CSWC) | Capital Southwest Corp | CSWC |
+| 29 | 81 | $27.60 | [Chart](https://www.tradingview.com/chart/?symbol=BNO) | United States Brent Oil Fund, LP | BNO |
+| 37 | 81 | $65.50 | [Chart](https://www.tradingview.com/chart/?symbol=ZROZ) | PIMCO 25+ Year Zero Coupon U.S. Treasury Index Exchange-Traded Fund | ZROZ |
+| 20 | 80 | $15.45 | [Chart](https://www.tradingview.com/chart/?symbol=BCSF) | Bain Capital Specialty Finance, Inc. | BCSF |
+| 24 | 80 | $16.41 | [Chart](https://www.tradingview.com/chart/?symbol=QYLD) | Global X Funds Global X NASDAQ-100 Covered Call ETF | QYLD |
+| 29 | 80 | $20.58 | [Chart](https://www.tradingview.com/chart/?symbol=BITI) | ProShares Short Bitcoin ETF | BITI |
+| 21 | 79 | $74.54 | [Chart](https://www.tradingview.com/chart/?symbol=WFG) | West Fraser Timber Co. Ltd | WFG |
+| 24 | 78 | $14.65 | [Chart](https://www.tradingview.com/chart/?symbol=RYLD) | Global X Russell 2000 Covered Call ETF | RYLD |
+| 32 | 78 | $12.29 | [Chart](https://www.tradingview.com/chart/?symbol=KELYA) | Kelly Services Inc | KELYA |
+| 31 | 77 | $57.05 | [Chart](https://www.tradingview.com/chart/?symbol=UHAL.B) | U-Haul Holding Company | UHAL.B |
+| 35 | 77 | $134.87 | [Chart](https://www.tradingview.com/chart/?symbol=HES) | Hess Corporation | HES |
+| 29 | 76 | $14.56 | [Chart](https://www.tradingview.com/chart/?symbol=BMEZ) | BlackRock Health Sciences Term Trust | BMEZ |
+| 31 | 76 | $131.19 | [Chart](https://www.tradingview.com/chart/?symbol=PEP) | PepsiCo, Inc. | PEP |
+| 31 | 76 | $111.44 | [Chart](https://www.tradingview.com/chart/?symbol=LEN) | Lennar Corporation Class A | LEN |
+| 35 | 76 | $33.08 | [Chart](https://www.tradingview.com/chart/?symbol=LEGN) | Legend Biotech Corporation American Depositary Shares | LEGN |
+| 28 | 75 | $14.27 | [Chart](https://www.tradingview.com/chart/?symbol=EIC) | Eagle Point Income Company Inc. | EIC |
+| 32 | 75 | $14.15 | [Chart](https://www.tradingview.com/chart/?symbol=OCSL) | Oaktree Specialty Lending Corporation | OCSL |
+| 31 | 73 | $17.41 | [Chart](https://www.tradingview.com/chart/?symbol=MLNK) | MeridianLink, Inc. | MLNK |
+| 34 | 73 | $13.93 | [Chart](https://www.tradingview.com/chart/?symbol=BSM) | Black Stone Minerals, L.P. | BSM |
+| 31 | 72 | $10.66 | [Chart](https://www.tradingview.com/chart/?symbol=LADR) | LADDER CAPITAL CORP | LADR |
+| 36 | 71 | $15.07 | [Chart](https://www.tradingview.com/chart/?symbol=HR) | Healthcare Realty Trust Incorporated | HR |
+| 38 | 71 | $44.79 | [Chart](https://www.tradingview.com/chart/?symbol=IYE) | iShares U.S. Energy ETF | IYE |
+| 39 | 71 | $54.41 | [Chart](https://www.tradingview.com/chart/?symbol=GIS) | General Mills, Inc. | GIS |
+| 31 | 69 | $141.42 | [Chart](https://www.tradingview.com/chart/?symbol=CVX) | Chevron Corporation | CVX |
+| 36 | 69 | $117.94 | [Chart](https://www.tradingview.com/chart/?symbol=VDE) | Vanguard Energy ETF | VDE |
+| 37 | 69 | $84.33 | [Chart](https://www.tradingview.com/chart/?symbol=XLE) | Energy Select Sector SPDR Fund | XLE |
+| 38 | 69 | $17.76 | [Chart](https://www.tradingview.com/chart/?symbol=JPMpM) | JPMorgan Chase & Co. Depositary Shares, each representing a 1/400th interest in a share of 4.20% Non-Cumulative Preferred Stock, Series MM | JPMpM |
 
 ## **Methodology**
 
